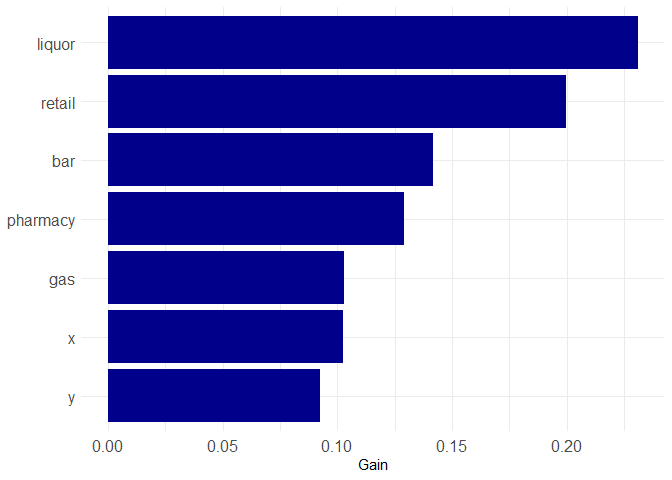
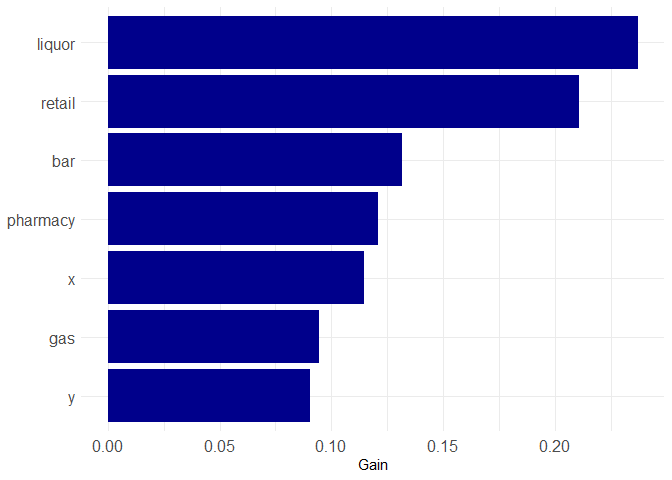
Updating vignette

diff --git a/README.md b/README.md
@@ -133,7 +133,9 @@ predictor variable.
 
 ``` r
 gbm_fit <- lgbm_fit(prep_data = model_data,
-                    nleaves = 10,
+                    nleaves =  20,
+                    mindata = 100,
+                    maxdepth = 7,
                     lrate = 0.01,
                     nrounds = 750,
                     bag_frac = .5,
@@ -142,15 +144,11 @@ gbm_fit <- lgbm_fit(prep_data = model_data,
                     plot_importance = TRUE)
 #> [1] "Model type: Poisson"
 #> [1] "Fitting lgbm model..."
-#> [LightGBM] [Warning] bagging_fraction is set=0.5, bagging_fraction=0.5 will be ignored. Current value: bagging_fraction=0.5
-#> [LightGBM] [Warning] bagging_freq is set=5, bagging_freq=5 will be ignored. Current value: bagging_freq=5
-#> [LightGBM] [Warning] bagging_fraction is set=0.5, bagging_fraction=0.5 will be ignored. Current value: bagging_fraction=0.5
-#> [LightGBM] [Warning] bagging_freq is set=5, bagging_freq=5 will be ignored. Current value: bagging_freq=5
 ```
 
-<img src="man/figures/README-unnamed-chunk-3-1.png" width="600px" /><img src="man/figures/README-unnamed-chunk-3-2.png" width="600px" />
+<img src="man/figures/README-unnamed-chunk-3-1.png" width="500px" /><img src="man/figures/README-unnamed-chunk-3-2.png" width="500px" />
 
-We can directly access the model predictions as well, by examinng the
+We can directly access the model predictions as well, by examining the
 model dataframe in the `lgbm_fit` output file. In this case `gbm.pred`
 is the predicted number of robberies at any given grid cell. These
 predictions can be used in a variety of methods - including identifying
@@ -171,13 +169,25 @@ head(gbm_fit$model_dataframe)
 #> 5       5 1010420 824500.8 0 6903.672 10890.82 8443.069 7855.256 6118.049
 #> 6       6 1010620 824500.8 0 6792.453 10708.93 8276.006 7681.173 6126.427
 #>      gbm.pred                       geometry
-#> 1 0.003757819 POLYGON ((1009520 824400.8,...
-#> 2 0.003757819 POLYGON ((1009720 824400.8,...
-#> 3 0.003757819 POLYGON ((1009920 824400.8,...
-#> 4 0.003757819 POLYGON ((1010120 824400.8,...
-#> 5 0.003757819 POLYGON ((1010320 824400.8,...
-#> 6 0.003716908 POLYGON ((1010520 824400.8,...
+#> 1 0.003564445 POLYGON ((1009520 824400.8,...
+#> 2 0.003564445 POLYGON ((1009720 824400.8,...
+#> 3 0.003162640 POLYGON ((1009920 824400.8,...
+#> 4 0.002891697 POLYGON ((1010120 824400.8,...
+#> 5 0.003666776 POLYGON ((1010320 824400.8,...
+#> 6 0.003666776 POLYGON ((1010520 824400.8,...
 ```
+
+We can also plot the accumulated local effect of any predictor variable.
+For example, if we wanted to know the effect of liquor stores on
+robberies up to any distance, we can calculate it using the `plot_ale`
+function. Here it looks like the effect is highly localized, with the
+effect decaying rapidly as distance from a liquor store increases.
+
+``` r
+plot_ale(gbm_fit, 'liquor')
+```
+
+<img src="man/figures/README-unnamed-chunk-5-1.png" width="500px" />
 
 ### Fitting your model with cross-validation
 
@@ -189,16 +199,21 @@ These can be specified by adding `cv=TRUE` to the model, then providing
 values for the cross-validation tuning grid for each parameter. The
 cross-validation function then iteratively fits models for each of the
 unique parameter combinations until an optimal one is found. If we
-provide 3 values for each of the parameters we must then fit
+provide 3 values for 3 of the parameters we must then fit
 3<sup>3</sup> = 27 models. While more options are typically better, this
-can become quite time intensive with many combinations.
+can become quite time intensive with many combinations. You may wish to
+tune the parameters seperately, check the results against your test
+dataset, then re-tune the model against the other parameters.
 
 ``` r
 gbm_fit_cv <- lgbm_fit(prep_data = model_data,
                     cv = TRUE,
+                    cv.folds = 5,
                     cv.nleaves = c(5,10,20),
-                    cv.lrate = c(0.1, 0.05, 0.01),
-                    cv.nrounds = c(250,500,750),
+                    cv.mindata = c(50,100),
+                    cv.maxdepth = c(7,10,20),
+                    cv.lrate = 0.01,
+                    cv.nrounds = 750,
                     bag_frac = .5,
                     bag_freq = 5)
 ```
